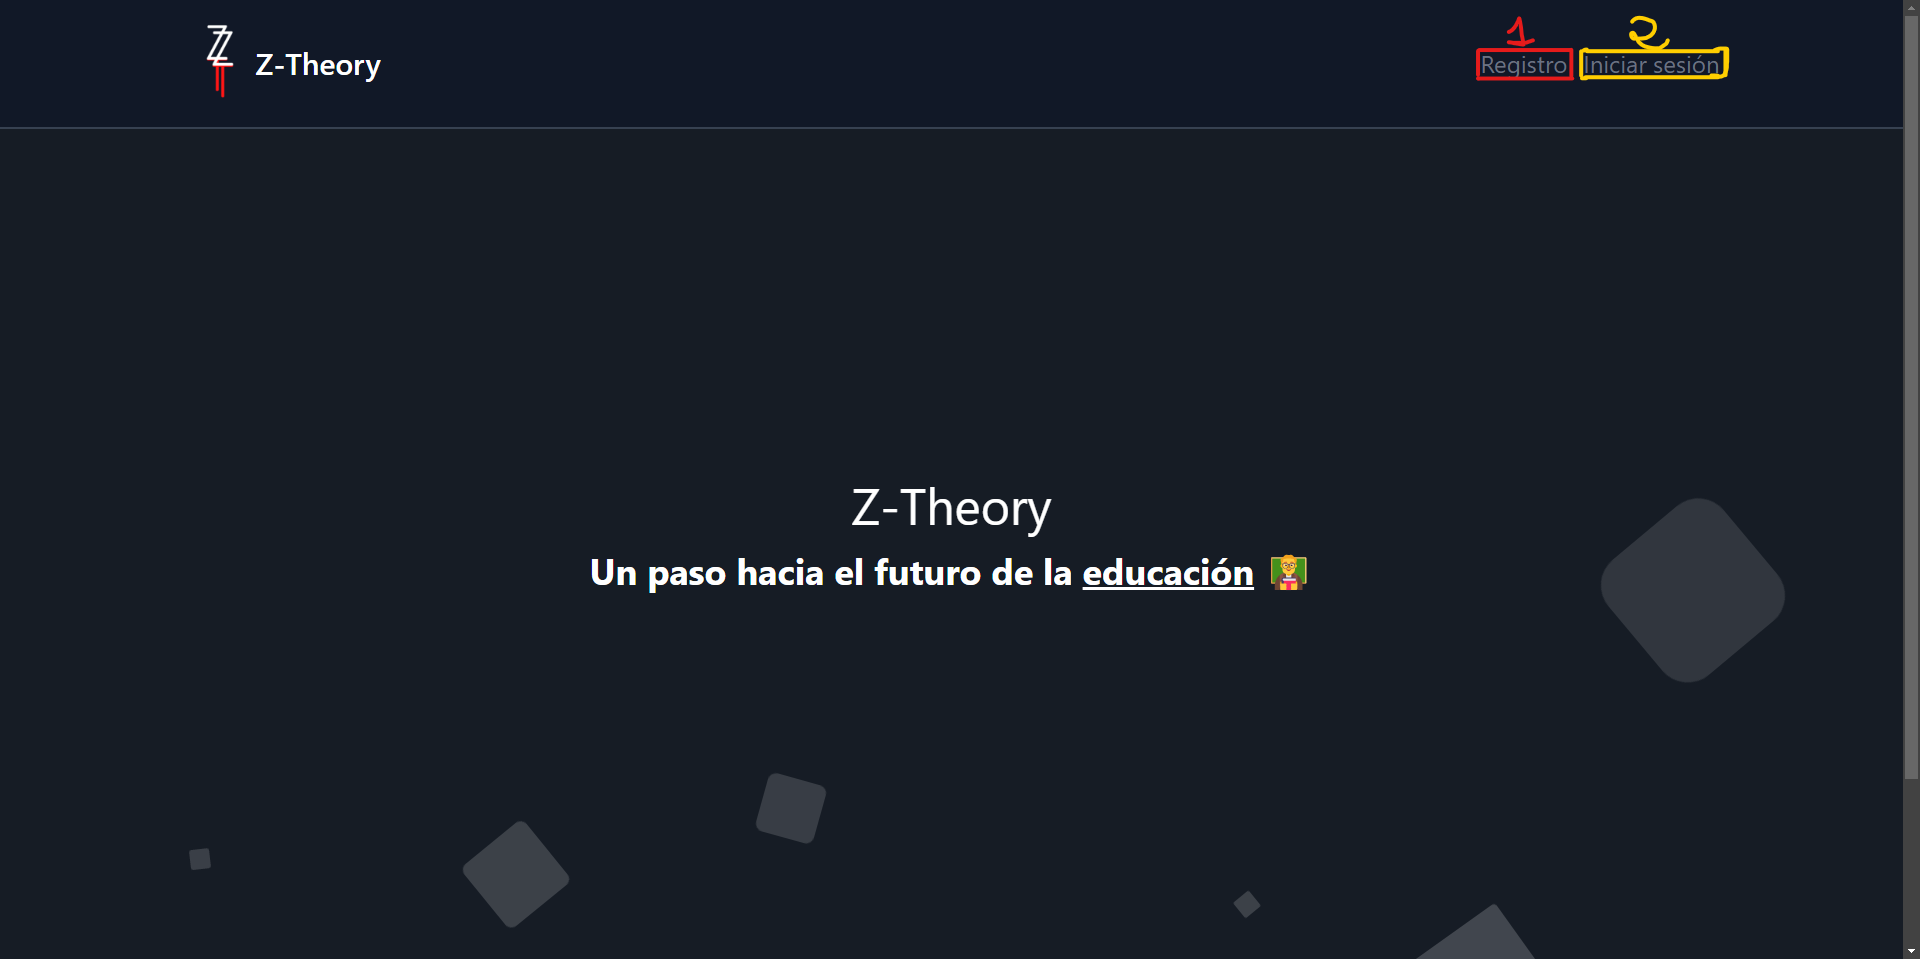
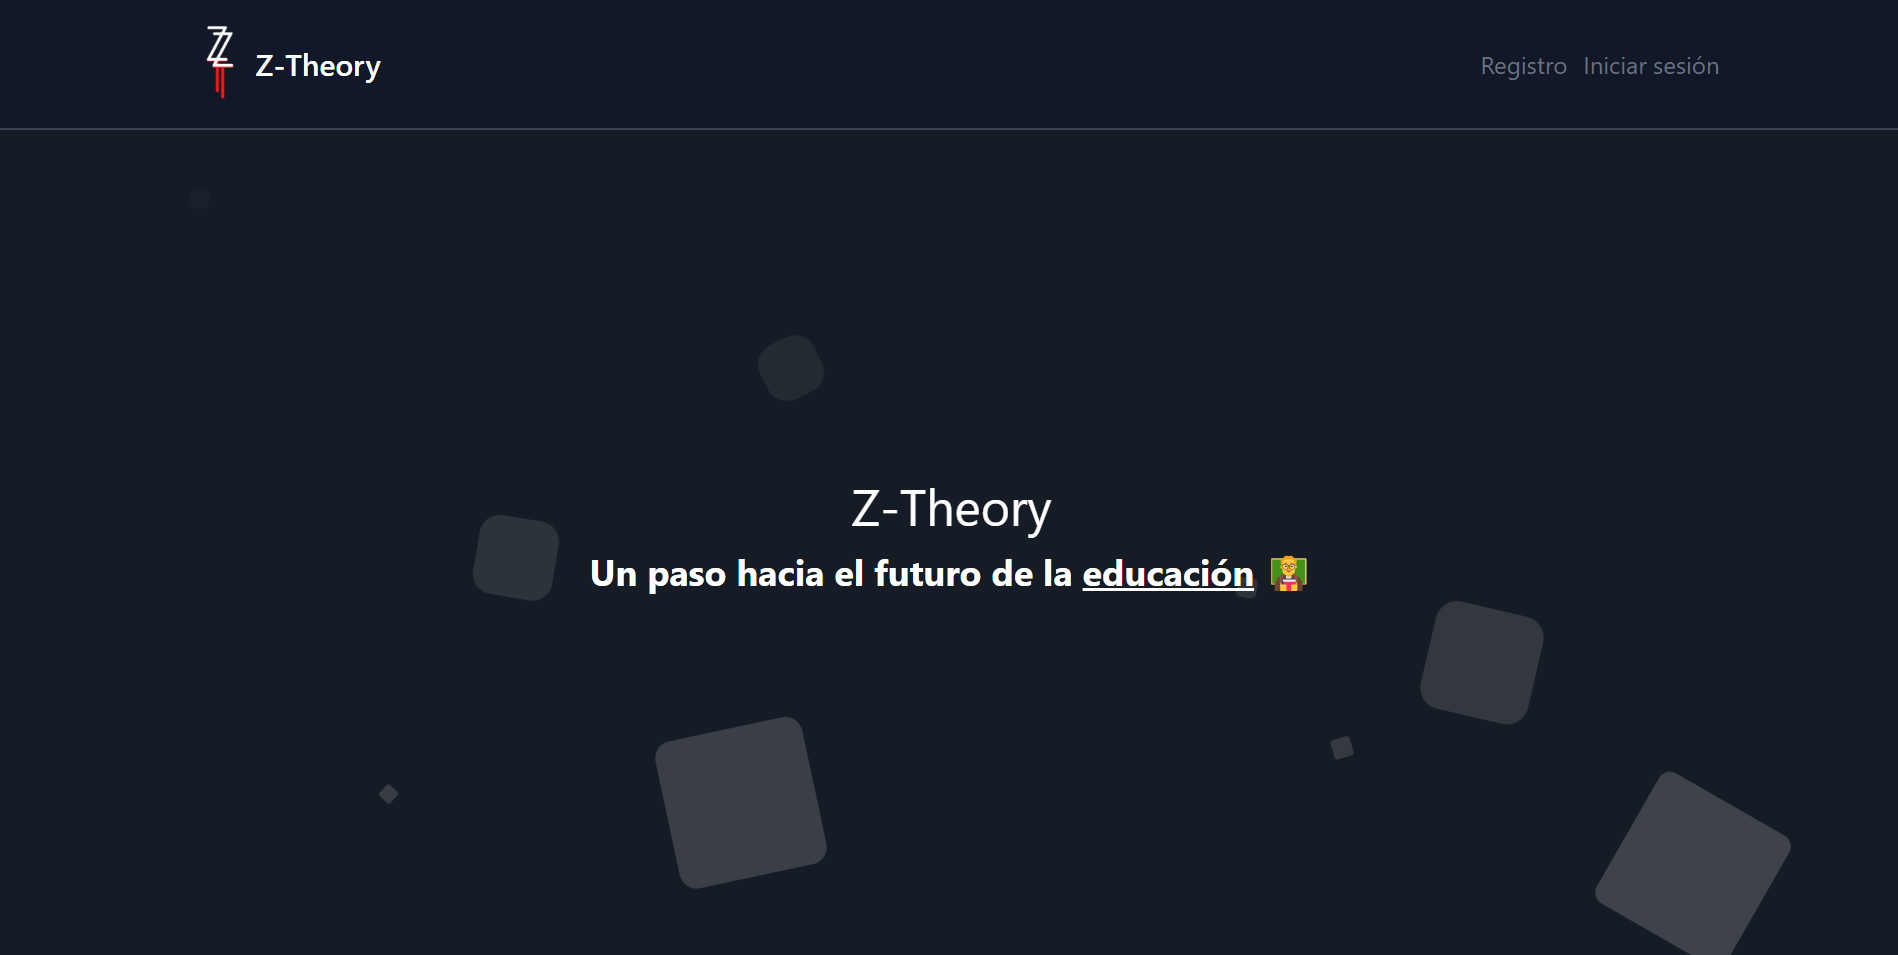
Change images to gifs

diff --git a/docs/manual/profesor/ranking.md b/docs/manual/profesor/ranking.md
@@ -7,14 +7,19 @@ Dentro de esta parte, el profesor podrá gestionar la entrada a los rankings de 
 Volviendo al perfil del profesor. Podrá gestionar todo el sistema de rankings desde ahí.
 
 ![Muestra de ranking](../../images/teacher/ranking/ranking.png)
-Desde aquí podrá; borrar alumnos, añadir entregas, modificar el nombre del ranking, eliminar el ranking y cambiar el código del ranking dando click en el mismo código del ranking.
 
-![Gestión del ranking](../../images/teacher/ranking/ranking_management.png)
+Desde aquí podrá; borrar alumnos, añadir entregas, modificar el nombre del ranking,cambiar el código del y eliminar el ranking.
 
-Para poder crear un ranking deberá ir a su perfil y darle un nombre. Acto seguido, deberá dar click en **Añadir Ranking**.
-![Creación de ranking](../../images/teacher/ranking/ranking_creation.png)
+Cambio de nombre al ranking
+![Cambio del nombre del ranking](../../images/teacher/ranking/ranking_rename.gif)
 
-Para verlo únicamente deberá bajar un poco por su perfil y se lo mostrará en el apartado de **Rankings creados**.
-![Mostar ranking creado](../../images/teacher/ranking/ranking_created.png)
+Eliminación del estudiante del ranking
+![Borrar alumno del ranking](../../images/teacher/ranking/ranking_student_delete.gif)
+
+Refrescar código del ranking
+![Refrescar código del ranking](../../images/teacher/ranking/ranking_refresh_code.gif)
+
+Para poder crear un ranking deberá ir a su perfil y darle un nombre. Acto seguido, deberá dar click en **Añadir Ranking**. Para verlo únicamente deberá bajar un poco por su perfil y se lo mostrará en el apartado de **Rankings creados**.
+![Creación de ranking](../../images/teacher/ranking/ranking_creation.gif)
 
 Para poder añadir estudiantes al ranking, deberá darle click al código para que se le copie al portapapeles. Luego, podrá pasarle ese código a los alumnos para que se vayan uniendo.

diff --git a/docs/manual/index.md b/docs/manual/index.md
@@ -4,24 +4,24 @@ Una vez instalado correctamente el proyecto y que este se esté sirviendo, deber
 
 ![Página inicial](../../images/landpage.png)
 
-Esa es la página principal. Cómo podrás observar hay dos puntos marcados. Uno de color <span style="color: red">rojo</span> y otro de color <span style="color: #FFCE00">amarillo</span>.
-
-Ambos colores son para acciones totalmente diferentes.
+Esa es la página principal. Cómo podrás observar hay dos acciones que puede hacer el usuario. Puede tanto **```Iniciar Sesión```** como **```Registrarse```**.
 
 ---
 
-## Registro <i style="color: red">*</i>
+## Registro 
 
 Una vez entres dentro del apartado de registro encontraras un formulario con varios campos para rellenar con datos.
-![Registro](../images/register.png)
 Aquí un dato a destacar es la opción de **soy un estudiante** si das click en esa opción cambiarás a la de ser **profesor** como podrás ver aquí:
-![Registro como profesor](../images/register_teacher.png)
+
+![Registro](../../images/register.gif)
+
+
 La opción que cambia cuando te registras como profesor o alumno es que en el alumno le pide la fecha de nacimiento mientras que en el profesor le pide el nombre de su centro educativo.
-Si el usuario ya tiene cuenta, puede dar click en la opción de **```¿Ya tienes una cuenta```** para que le lleve al formulario de iniciar sesión.
+Si el usuario ya tiene cuenta, puede dar click en la opción de **```¿Ya tienes una cuenta?```** para que le lleve al formulario de iniciar sesión.
 
 ---
 
-## Iniciar sesión <i style="color: yellow">*</i>
+## Iniciar sesión 
 Una vez entres dentro del apartado de Iniciar sesión encontrarás un formulario con varios campos para rellenar con datos.
 ![Iniciar sesión](../images/login.png)
 Si el usuario no tiene una cuenta puede optar por dar click en la opción de **```¿No tienes una cuenta?```** y le llevará al formulario de registro.

diff --git a/docs/manual/profesor/tareas.md b/docs/manual/profesor/tareas.md
@@ -2,16 +2,23 @@
 
 Para poder crear tareas, primero deberá asignarlas al ranking. 
 
-![Añadir entrega](../../images/teacher/ranking/ranking_management.png)
-
 Una vez le de click a **Añadir entrega** aparecerá en la parte derecha un formulario para la creación de la entrega.
-
-![Creacion de la entrega](../../images/teacher/assignment/assignment.png)
 
 El profesor deberá de rellenar el formulario para que los alumnos puedan crear la entrega. Deberá añadir un **Titulo**, una **descripción**, un **contenido** y asignar los **puntos** que obtendrá el alumno tras completarla.
 
+![Creación de la tarea](../../images/teacher/assignment/assignment_creation.gif)
+
+
 Una vez creada la tarea, deberá ir al apartado de **Tareas** que tiene en su perfil para poder gestionar la tarea.
 
-![Gestión de la tarea](../../images/teacher/assignment/assignment_management.png)
+Dentro del apartado de **Tareas** podrá **editar** la tarea
 
-El profesor podrá modificar la tarea a su gusto. Tanto eliminar la tarea de ese ranking o bien eliminarla **definitivamente**.
+![Edición de la tarea](../../images/teacher/assignment/assignment_edit.gif)
+
+**Borrar** la tarea dentro de ese ranking pero no borrarla definitivamente
+
+![Borrar del ranking](../../images/teacher/assignment/assignment_delete.gif)
+
+**Borrar definitivamente** borrarla definitivamente
+
+![Borrar del ranking para siempre](../../images/teacher/assignment/assignment_delete_forever.gif)

diff --git a/docs/manual/profesor/historial.md b/docs/manual/profesor/historial.md
@@ -1,6 +1,6 @@
 # Historial
 
 Dentro de esta página el profesor podrá gestionar todas las evaluaciones que el alumnado ha creado entre sí. Es decir, podrá mirar
-quien la creó a quién le dió los puntos, cuantos puntos le dió y la fecha en la que lo hizo. El profesor podrá borrar en cualquier momento la evaluación creada por el alumno y los puntos se restaran.
-![Muestra de historial](../../images/teacher/evaluation/evaluation_history.png)
-Dentro de ahí los **kudos** se refiere a los puntos que tiene el alumno en total. Si el profesor quisiera eliminar el historial, aparecería antes una advertencia de confirmación para evitar eliminar registros no deseados.
+quien la creó a quién le dió los puntos, cuantos puntos le dió y la fecha en la que lo hizo. También podrá filtrarlo como más cómodo le sea. El profesor podrá borrar en cualquier momento la evaluación creada por el alumno y los puntos se restaran. Dentro de ahí los **kudos** se refiere a los puntos que tiene el alumno en total. 
+
+![Muestra de historial](../../images/teacher/evaluation/evaluation_history_delete.gif)

diff --git a/docs/manual/estudiante/evaluacion.md b/docs/manual/estudiante/evaluacion.md
@@ -4,12 +4,12 @@ En esta parte de la aplicación, los alumnos podrán evaluarse entre sí, repart
 
 Si el usuario quiere saber más información acerca de las **soft skills** puede dar click en las medallas y le saldrá un modal con la información sobre las habilidades.
 
-![Ejemplo soft skills](../../images/student/evaluation/student_soft_skills.png)
+![Ejemplo soft skills](../../images/student/evaluation/student_soft_skills.gif)
 
 
 Cuando el alumno le de click en el botón **Evaluar** en el ranking con sus compañeros, se le abrirá en la parte izquierda de la pantalla lo siguiente: 
 
-![Ejemplo de evaluacion](../../images/student/evaluation/student_evaluation.png)
+![Ejemplo de evaluacion](../../images/student/evaluation/student_evaluation.gif)
 
 Ahí habrá un pequeño formulario donde pueda poner los kudos que el alumno quiera introducir para ese alumno. Si el alumno intenta dar más de sus 1000 kudos, la aplicación le retornará un error diciendo que la suma de todos los campos no puede dar más de 1000.
 

diff --git a/docs/manual/estudiante/perfil.md b/docs/manual/estudiante/perfil.md
@@ -12,6 +12,5 @@ Dentro de este ranking, podrá evaluar a sus compañeros dandoles puntos para la
 
 ## Cambiar contraseña
 
-![Cambio de contraseña del usuario](../../images/student/profile/student_change_password.png)
-
 El usuario deberá poner su contraseña anterior y poner la nueva para un cambio de contraseña exitoso.
+![Cambio de contraseña del usuario](../../images/student/profile/student_change_password.gif)

diff --git a/docs/manual/profesor/perfil.md b/docs/manual/profesor/perfil.md
@@ -6,4 +6,4 @@ El rol del profesor actuarlia como el de un administrador. Este, podrá gestiona
 
 Si el profesor lo deasea también podrá cambiar su contraseña dando click en el botón de **cambiar contraseña**.
 
-![Cambiar contraseña](../../images/teacher/teacher_change_password.png)
+![Cambiar contraseña](../../images/teacher/teacher_change_password.gif)
